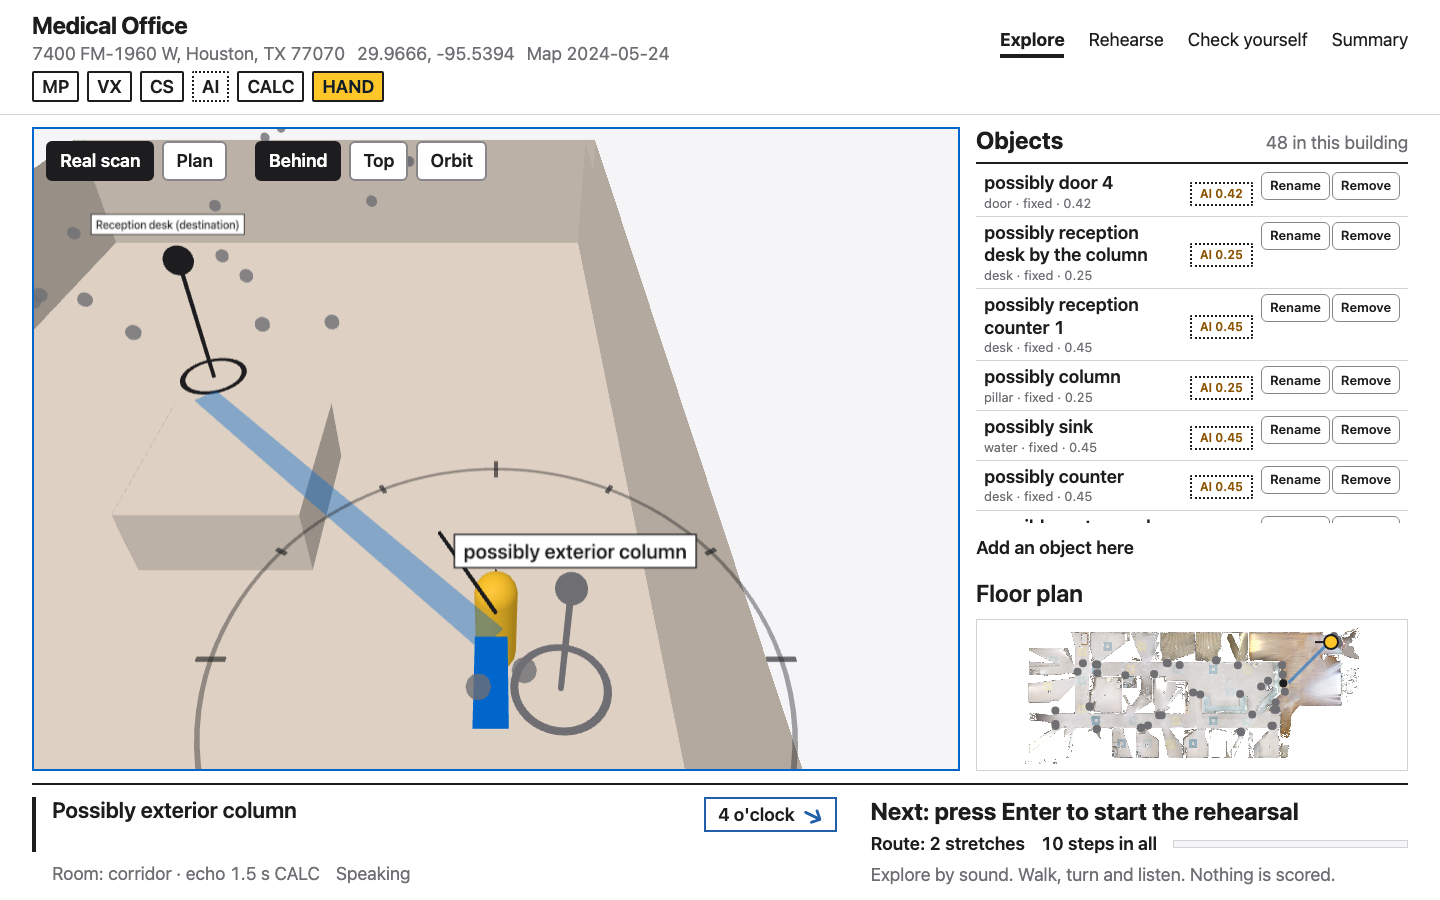
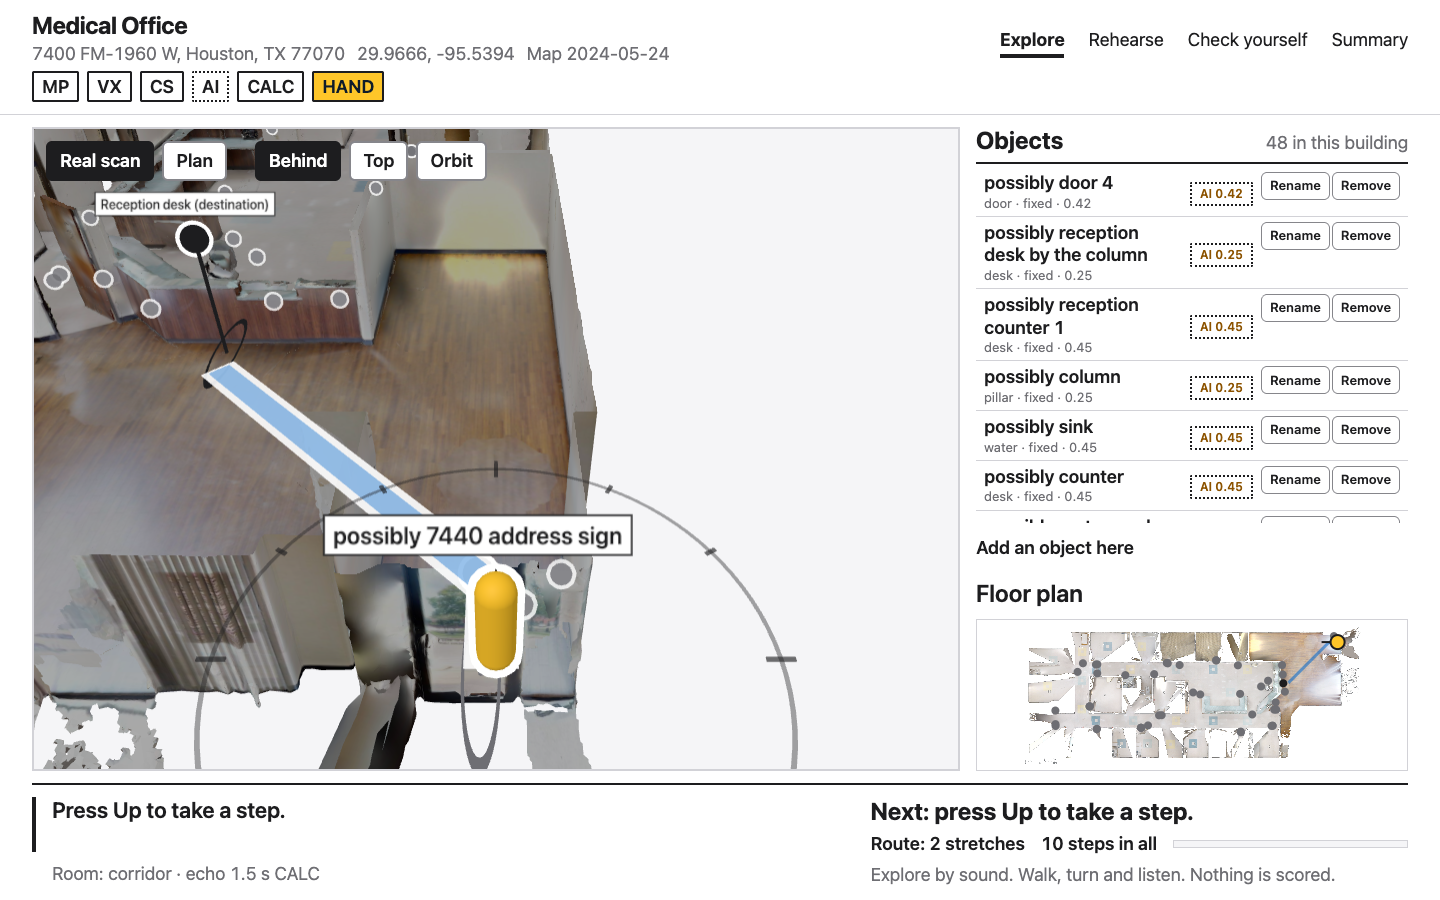
feat(web): real scan readability (lifted texture, ribbon casing, walker and pin outlines), keyboard route to 3D buttons (F6 region, / toggle)

diff --git a/web/src/three/room3d.ts b/web/src/three/room3d.ts
@@ -128,7 +128,9 @@ export class Room3D {
     cap.position.y = 0.65; cap.castShadow = true;
     const nose = new THREE.Mesh(new THREE.ConeGeometry(0.09, 0.28, 16), new THREE.MeshStandardMaterial({ color: this.ink }));
     nose.rotation.x = -Math.PI / 2; nose.position.set(0, 0.95, -0.28);
-    this.walker.add(cap, nose);
+    const halo = new THREE.Mesh(new THREE.CapsuleGeometry(0.2, 0.9, 6, 16), new THREE.MeshBasicMaterial({ color: 0xffffff, side: THREE.BackSide }));
+    halo.position.y = 0.65; halo.scale.set(1.35, 1.08, 1.35);
+    this.walker.add(halo, cap, nose);
     this.scene.add(this.walker);
     this.buildRing();
     const fan = (deg: number, r: number, color: string, op: number) => {
@@ -177,7 +179,11 @@ export class Room3D {
         const m = o as THREE.Mesh; if (!m.isMesh) return;
         m.castShadow = false; m.receiveShadow = false;
         for (const mat of ([] as THREE.Material[]).concat(m.material)) {
-          mat.side = THREE.DoubleSide; mat.clippingPlanes = [plane]; mat.needsUpdate = true;
+          mat.side = THREE.DoubleSide; mat.clippingPlanes = [plane];
+          // the capture is dark under the Light Apple UI: lift it with the texture itself so overlays have a calmer ground
+          const sm = mat as THREE.MeshStandardMaterial;
+          if (sm.map) { sm.emissiveMap = sm.map; sm.emissive = new THREE.Color(0x9a9a9a); }
+          mat.needsUpdate = true;
           this.disposables.push(mat);
           (mat as THREE.MeshStandardMaterial).map && this.disposables.push((mat as THREE.MeshStandardMaterial).map!);
         }
@@ -201,8 +207,12 @@ export class Room3D {
     this.planObjs.forEach(o => { o.visible = !scan; });
     // overlays ignore depth in scan mode so the route ribbon, rings and cane are never buried in the mesh floor
     const over = [...this.routeMeshes, this.hi, this.ringGrp, this.wedgeM, this.coneM, this.rayM, this.cane];
-    over.forEach(o => o.traverse(x => { const mm = x as THREE.Mesh; if (!mm.isMesh) return; (mm.material as THREE.Material).depthTest = !scan; mm.renderOrder = scan ? 5 : 0; }));
-    this.pins.forEach(p => p.grp.traverse(x => { const mm = x as THREE.Mesh; if (mm.isMesh && !(x as THREE.Sprite).isSprite) { (mm.material as THREE.Material).depthTest = !scan; mm.renderOrder = scan ? 6 : 0; } }));
+    over.forEach(o => o.traverse(x => { const mm = x as THREE.Mesh; if (!mm.isMesh) return; (mm.material as THREE.Material).depthTest = !scan; mm.renderOrder = scan ? (mm.userData.casing ? 4 : 5) : 0; }));
+    // the walker is the one thing the eye must find: never buried in the mesh, always outlined
+    this.walker.traverse(x => { const mm = x as THREE.Mesh; if (!mm.isMesh) return; const mt = mm.material as THREE.Material; mt.depthTest = !scan; mt.transparent = scan; mt.needsUpdate = true; mm.renderOrder = scan ? (mm === this.walker.children[0] ? 8 : 9) : 0; });
+    (this.cane.material as THREE.MeshBasicMaterial).color.set(scan ? "#FFFFFF" : this.ink);
+    this.cane.scale.x = scan ? 3 : 1;
+    this.pins.forEach(p => p.grp.traverse(x => { const mm = x as THREE.Mesh; if (mm.isMesh && !(x as THREE.Sprite).isSprite) { (mm.material as THREE.Material).depthTest = !scan; mm.renderOrder = scan ? (mm.userData.halo ? 6 : 7) : 0; } }));
   }
 
   /** Bounding box (three coordinates) of the walls, obstacles and the entrance: what the top view must frame. */
@@ -314,14 +324,18 @@ export class Room3D {
     stem.position.y = dest ? 0.95 : 0.75;
     const head = new THREE.Mesh(new THREE.SphereGeometry(dest ? 0.2 : 0.14, 20, 14), new THREE.MeshBasicMaterial({ color: col }));
     head.position.y = dest ? 1.95 : 1.55;
+    const hr = dest ? 0.2 : 0.14, hh = new THREE.Mesh(new THREE.SphereGeometry(hr * 1.3, 20, 14), new THREE.MeshBasicMaterial({ color: 0xffffff }));
+    hh.position.y = head.position.y; hh.userData.halo = true;
     const ring = new THREE.Mesh(new THREE.RingGeometry(0.42, 0.5, 40), new THREE.MeshBasicMaterial({ color: col, side: THREE.DoubleSide }));
     ring.rotation.x = -Math.PI / 2; ring.position.y = 0.02;
     const label = labelSprite(shownName(l) + (dest ? " (destination)" : ""), this.ink);
     label.position.y = dest ? 2.45 : 2.0;
-    full.add(stem, head, ring, label);
+    full.add(hh, stem, head, ring, label);
     // quiet state: one small dot at head height, no stem, no label
     const dot = new THREE.Mesh(new THREE.SphereGeometry(0.11, 12, 8), new THREE.MeshBasicMaterial({ color: col, transparent: true, opacity: 0.8 }));
     dot.position.y = 0.9;
+    const dh = new THREE.Mesh(new THREE.SphereGeometry(0.15, 12, 8), new THREE.MeshBasicMaterial({ color: 0xffffff, transparent: true, opacity: 0.8 }));
+    dh.userData.halo = true; dot.add(dh);
     grp.add(full, dot);
     const [x, , z] = toThree(l.pos);
     grp.position.set(x, 0, z);
@@ -362,6 +376,9 @@ export class Room3D {
       const mid: Vec2 = [(s.start[0] + s.end[0]) / 2, (s.start[1] + s.end[1]) / 2];
       const [x, , z] = toThree(mid);
       m.position.set(x, 0.03, z);
+      // white casing: keeps the blue ribbon readable over a busy photographic floor
+      const edge = new THREE.Mesh(new THREE.BoxGeometry(0.56, 0.02, Math.max(0.05, len) + 0.12), new THREE.MeshBasicMaterial({ color: 0xffffff, transparent: true, opacity: 0.9 }));
+      edge.position.y = -0.005; edge.userData.casing = true; m.add(edge);
       m.rotation.y = headingToYaw(Math.atan2(s.end[0] - s.start[0], s.end[1] - s.start[1]) * 180 / Math.PI);
       this.scene.add(m); this.routeMeshes.push(m);
     }

diff --git a/web/src/a11y.test.ts b/web/src/a11y.test.ts
@@ -57,10 +57,30 @@ describe("index.html stage", () => {
     wireRegions(document, stage, speech, {} as never);
     stage.focus();
     const f6 = (shiftKey = false) => document.dispatchEvent(new KeyboardEvent("keydown", { key: "F6", shiftKey, bubbles: true }));
+    f6(); expect(document.activeElement).toBe(document.querySelector(".room3d-bar button:not(:disabled)[aria-pressed=true]"));   // the 3D view buttons
     f6(); expect(document.activeElement).toBe(document.querySelector(".objects__scroll"));
     f6(); expect(document.activeElement).toBe(document.querySelector("#keys-panel > summary"));
     f6(); expect(document.activeElement).toBe(document.querySelector("#data-panel > summary"));
     f6(true); expect(document.activeElement).toBe(document.querySelector("#keys-panel > summary"));
-    f6(true); f6(true); expect(document.activeElement).toBe(stage);
+    f6(true); f6(true); f6(true); expect(document.activeElement).toBe(stage);
+  });
+});
+
+describe("3D view buttons inside the stage", () => {
+  it("keep Tab and Space (the stage keys ignore them) and Escape returns to the stage", async () => {
+    page("index.html");
+    const { attachKeys } = await import("./input/keyboard");
+    const stage = document.getElementById("stage")!;
+    const any = vi.fn(), enter = vi.fn(), escape = vi.fn();
+    attachKeys(stage, { any, enter, escape } as never);
+    const btn = document.querySelector<HTMLButtonElement>('[data-view="top"]')!;
+    btn.focus();
+    const fire = (key: string) => { const e = new KeyboardEvent("keydown", { key, bubbles: true, cancelable: true }); btn.dispatchEvent(e); return e; };
+    expect(fire("Tab").defaultPrevented).toBe(false);
+    expect(fire(" ").defaultPrevented).toBe(false);
+    fire("Enter");
+    expect(any).not.toHaveBeenCalled(); expect(enter).not.toHaveBeenCalled();
+    fire("Escape");
+    expect(document.activeElement).toBe(stage); expect(escape).not.toHaveBeenCalled();
   });
 });

diff --git a/web/src/app.ts b/web/src/app.ts
@@ -302,6 +302,7 @@ export function wireRegions(doc: Document, stage: HTMLElement, speech: Speech, s
   }
   const regions: [string, () => HTMLElement | null][] = [
     ["Top bar.", () => tab ?? null], ["Rehearsal.", () => stage],
+    ["3D view. Space picks a button. Escape returns.", () => doc.querySelector<HTMLElement>(".room3d-bar button:not(:disabled)[aria-pressed=true]") ?? doc.querySelector<HTMLElement>(".room3d-bar button:not(:disabled)")],
     ["", () => doc.querySelector<HTMLElement>(".objects__scroll")],                           // objects list and the add form
     ["Keys.", () => doc.querySelector<HTMLElement>("#keys-panel > summary")],
     ["Agent and data.", () => doc.querySelector<HTMLElement>("#data-panel > summary")],
@@ -309,8 +310,11 @@ export function wireRegions(doc: Document, stage: HTMLElement, speech: Speech, s
   doc.addEventListener("keydown", e => {
     if (e.key !== "F6") return;
     e.preventDefault();
-    const at = regions.findIndex(([, f]) => { const el = f(); return !!el && (el === doc.activeElement || el.contains(doc.activeElement)); });
-    const n = regions.length, i = ((at < 0 ? 0 : at + (e.shiftKey ? -1 : 1)) + n) % n;
+    const inside = regions.map(([, f]) => { const el = f(); return !!el && (el === doc.activeElement || el.contains(doc.activeElement)); });
+    const at = inside.lastIndexOf(true);   // the 3D bar sits inside the stage: the most specific (last) region wins
+    const n = regions.length, dir = e.shiftKey ? -1 : 1;
+    let i = ((at < 0 ? 0 : at + dir) + n) % n;
+    for (let k = 0; k < n && !regions[i][1](); k++) i = (i + dir + n) % n;   // skip a region this page does not have (the 3D bar on a phone)
     const [name, f] = regions[i];
     f()?.focus();
     speech.stop();

diff --git a/web/src/ui/cockpit.ts b/web/src/ui/cockpit.ts
@@ -216,10 +216,17 @@ export class Cockpit {
       this.fitStage();
       this.doc.querySelectorAll("[data-view]").forEach(o => o.setAttribute("aria-pressed", String(o === b)));
     }));
-    // [ ] and \ are free keys; the stage keeps every other binding
+    // [ ] and \ switch views, / toggles Real scan and Plan; the stage keeps every other binding. F6 also reaches the buttons.
     this.doc.addEventListener("keydown", e => {
+      if (e.ctrlKey || e.metaKey || e.altKey || (e.target as Element | null)?.closest?.("input, textarea, select")) return;
+      if (e.key === "/") {
+        e.preventDefault();
+        const to = this.room?.sceneMode === "scan" ? "plan" : "scan";
+        this.doc.querySelector<HTMLButtonElement>(`[data-scene="${to}"]`)?.click();
+        return;
+      }
       const v = ({ "[": "behind", "]": "top", "\\": "orbit" } as Record<string, ViewMode>)[e.key];
-      if (!v || e.ctrlKey || e.metaKey || e.altKey) return;
+      if (!v) return;
       this.doc.querySelector<HTMLButtonElement>(`[data-view="${v}"]`)?.click();
     });
   }

diff --git a/web/index.html b/web/index.html
@@ -134,7 +134,9 @@
                 <dt>Tab, Shift+Tab</dt><dd>choose the next or previous place</dd>
                 <dt>Enter</dt><dd>go to the chosen place with the beacon (Explore); hint (Rehearse); start rehearsal when no place is chosen; continue</dd>
                 <dt>Escape</dt><dd>stop the beacon or a sweep; with nothing running, leave the rehearsal so Tab works again (then Enter on Explore comes back)</dd>
-                <dt>F6, Shift+F6</dt><dd>move between the top bar, the rehearsal, Keys and Agent and data</dd>
+                <dt>F6, Shift+F6</dt><dd>move between the top bar, the rehearsal, the 3D view buttons, the objects, Keys and Agent and data</dd>
+                <dt>[ ] \</dt><dd>3D view: behind, top, orbit</dd>
+                <dt>/</dt><dd>3D view: switch between Real scan and Plan (Plan is the fallback if the scan is slow)</dd>
                 <dt>P</dt><dd>pause or resume all sound</dd>
                 <dt>S</dt><dd>source of this line</dd>
                 <dt>Shift+S</dt><dd>swap left and right</dd>

diff --git a/web/src/input/keyboard.ts b/web/src/input/keyboard.ts
@@ -46,6 +46,8 @@ export function attachKeys(stage: HTMLElement, a: KeyActions, now: () => number 
   let lastStep = -Infinity, lastTurn = -Infinity;
   const down = (e: KeyboardEvent) => {
     if (e.ctrlKey || e.metaKey || e.altKey) return;
+    // The 3D view buttons live inside the stage: they keep Tab, Space and Enter (F6 reaches them); Escape goes back to the stage.
+    if ((e.target as Element | null)?.closest?.(".room3d-bar")) { if (e.key === "Escape") { e.preventDefault(); stage.focus(); } return; }
     const k = e.key.length === 1 ? e.key.toLowerCase() : e.key;
     if (k.startsWith("Arrow") || k === " " || k === "Tab") e.preventDefault(); // only while the stage has focus (the listener is on it)
     if (e.repeat && !REPEATABLE.has(k)) return;
